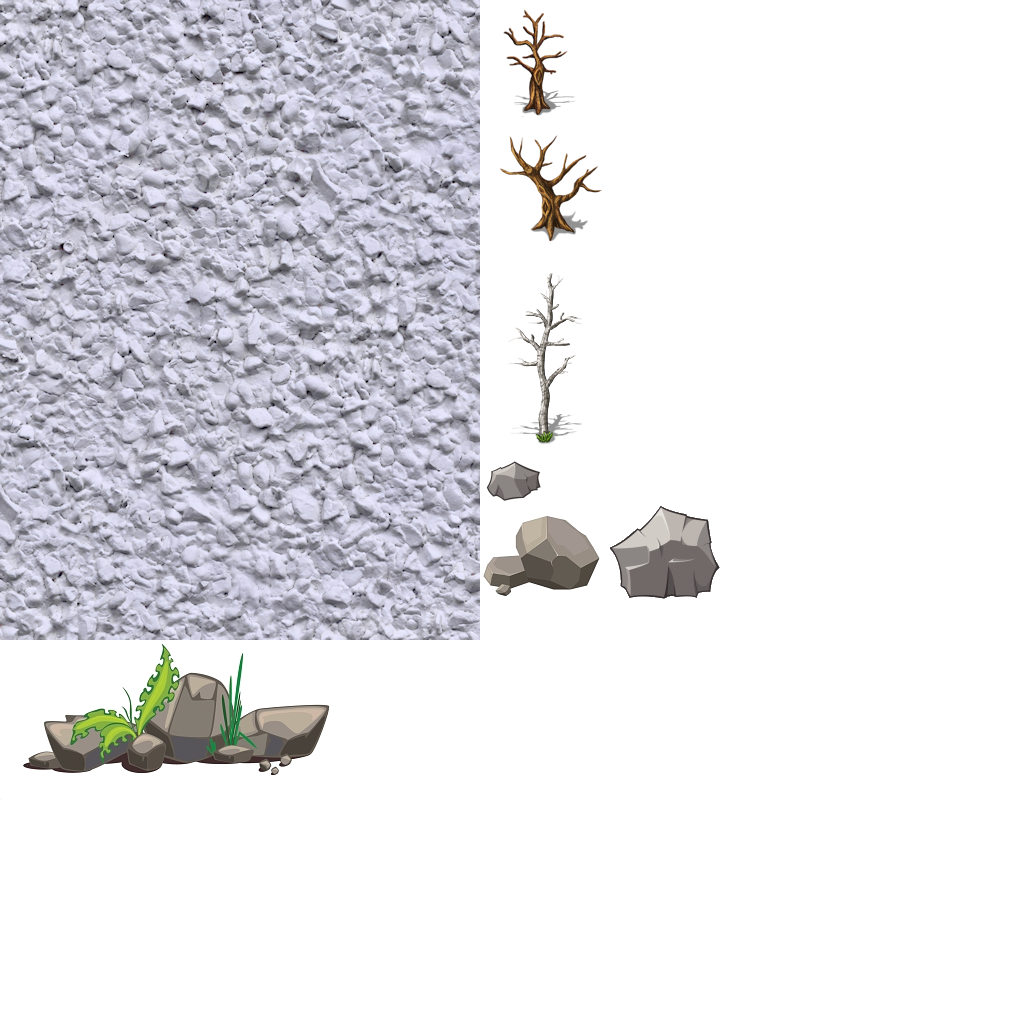
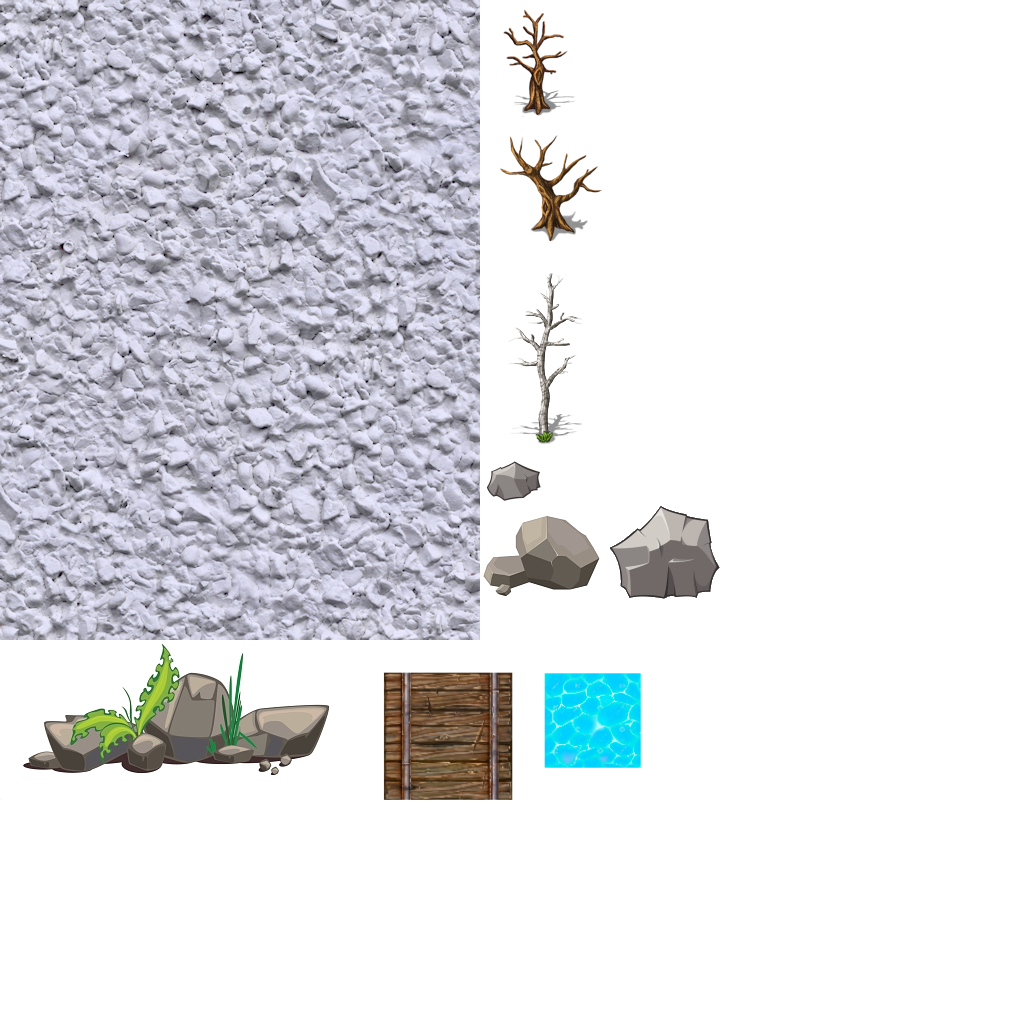
No comments

Changed region(s): [[0.375, 0.6562, 0.5, 0.7812], [0.5312, 0.6562, 0.625, 0.75]]

diff --git a/core/src/uy/com/agm/gamethree/tools/WorldContactListener.java b/core/src/uy/com/agm/gamethree/tools/WorldContactListener.java
@@ -32,13 +32,18 @@ public class WorldContactListener implements ContactListener {
         int collisionDef = fixA.getFilterData().categoryBits | fixB.getFilterData().categoryBits;
         switch (collisionDef) {
             // Hero/HeroGhost/HeroTough - InteractiveTileObjects
-            case Constants.HERO_BIT | Constants.BORDERS_BIT:
+            case Constants.HERO_BIT | Constants.BORDER_BIT:
             case Constants.HERO_BIT | Constants.OBSTACLE_BIT:
-            case Constants.HERO_GHOST_BIT | Constants.BORDERS_BIT:
+            case Constants.HERO_BIT | Constants.PATH_BIT:
+            case Constants.HERO_GHOST_BIT | Constants.BORDER_BIT:
             case Constants.HERO_GHOST_BIT | Constants.OBSTACLE_BIT:
-            case Constants.HERO_TOUGH_BIT | Constants.BORDERS_BIT:
+            case Constants.HERO_GHOST_BIT | Constants.PATH_BIT:
+            case Constants.HERO_TOUGH_BIT | Constants.BORDER_BIT:
             case Constants.HERO_TOUGH_BIT | Constants.OBSTACLE_BIT:
-                fixC = (fixA.getFilterData().categoryBits == Constants.BORDERS_BIT || fixA.getFilterData().categoryBits == Constants.OBSTACLE_BIT) ? fixA : fixB;
+            case Constants.HERO_TOUGH_BIT | Constants.PATH_BIT:
+                fixC = (fixA.getFilterData().categoryBits == Constants.BORDER_BIT ||
+                        fixA.getFilterData().categoryBits == Constants.OBSTACLE_BIT ||
+                        fixA.getFilterData().categoryBits == Constants.PATH_BIT) ? fixA : fixB;
                 ((InteractiveTileObject) fixC.getUserData()).onBump();
                 break;
 
@@ -112,7 +117,8 @@ public class WorldContactListener implements ContactListener {
 
             // Enemy - InteractiveTileObjects
             case Constants.ENEMY_BIT | Constants.OBSTACLE_BIT:
-            case Constants.ENEMY_BIT | Constants.BORDERS_BIT:
+            case Constants.ENEMY_BIT | Constants.BORDER_BIT:
+            case Constants.ENEMY_BIT | Constants.PATH_BIT:
                 fixC = fixA.getFilterData().categoryBits == Constants.ENEMY_BIT ? fixA : fixB;
                 ((Enemy) fixC.getUserData()).onBump();
                 break;
@@ -130,8 +136,9 @@ public class WorldContactListener implements ContactListener {
                 break;
 
             // Item - InteractiveTileObjects
-            case Constants.ITEM_BIT | Constants.BORDERS_BIT:
+            case Constants.ITEM_BIT | Constants.BORDER_BIT:
             case Constants.ITEM_BIT | Constants.OBSTACLE_BIT:
+            case Constants.ITEM_BIT | Constants.PATH_BIT:
                 fixC = fixA.getFilterData().categoryBits == Constants.ITEM_BIT ? fixA : fixB;
                 ((Item) fixC.getUserData()).onBump();
                 break;
@@ -155,7 +162,7 @@ public class WorldContactListener implements ContactListener {
                 break;
 
             // Hero's weapon - InteractiveTileObjects & Items
-            case Constants.HERO_WEAPON_BIT | Constants.BORDERS_BIT:
+            case Constants.HERO_WEAPON_BIT | Constants.BORDER_BIT:
             case Constants.HERO_WEAPON_BIT | Constants.OBSTACLE_BIT:
             case Constants.HERO_WEAPON_BIT | Constants.ITEM_BIT:
                 fixC = fixA.getFilterData().categoryBits == Constants.HERO_WEAPON_BIT ? fixA : fixB;
@@ -185,19 +192,19 @@ public class WorldContactListener implements ContactListener {
                 break;
 
             // Enemy's weapon - Borders
-            case Constants.ENEMY_WEAPON_BIT | Constants.BORDERS_BIT:
+            case Constants.ENEMY_WEAPON_BIT | Constants.BORDER_BIT:
                 fixC = fixA.getFilterData().categoryBits == Constants.ENEMY_WEAPON_BIT ? fixA : fixB;
                 ((Weapon) fixC.getUserData()).onTarget();
                 break;
 
             // Final enemy - Borders
-            case Constants.FINAL_ENEMY_BIT | Constants.BORDERS_BIT:
+            case Constants.FINAL_ENEMY_BIT | Constants.BORDER_BIT:
                 fixC = fixA.getFilterData().categoryBits == Constants.FINAL_ENEMY_BIT ? fixA : fixB;
                 ((FinalEnemy) fixC.getUserData()).onHitWall(true);
                 break;
 
             // Final enemy - Edges
-            case Constants.FINAL_ENEMY_BIT | Constants.EDGES_BIT:
+            case Constants.FINAL_ENEMY_BIT | Constants.EDGE_BIT:
                 fixC = fixA.getFilterData().categoryBits == Constants.FINAL_ENEMY_BIT ? fixA : fixB;
                 ((FinalEnemy) fixC.getUserData()).onHitWall(false);
                 break;

diff --git a/core/src/uy/com/agm/gamethree/tools/B2WorldCreator.java b/core/src/uy/com/agm/gamethree/tools/B2WorldCreator.java
@@ -24,6 +24,7 @@ import uy.com.agm.gamethree.sprites.items.powerups.PowerThree;
 import uy.com.agm.gamethree.sprites.items.powerups.PowerTwo;
 import uy.com.agm.gamethree.sprites.tileobjects.Borders;
 import uy.com.agm.gamethree.sprites.tileobjects.Obstacle;
+import uy.com.agm.gamethree.sprites.tileobjects.Path;
 import uy.com.agm.gamethree.sprites.weapons.EnemyBullet;
 import uy.com.agm.gamethree.sprites.weapons.HeroBullet;
 import uy.com.agm.gamethree.sprites.weapons.Weapon;
@@ -63,19 +64,27 @@ public class B2WorldCreator {
 
         TiledMap map = screen.getMap();
 
-        // Layer: borders
-        layer = map.getLayers().get("borders");
+        // Layer: border
+        layer = map.getLayers().get("border");
         if (layer != null) {
             for (MapObject object : layer.getObjects().getByType(RectangleMapObject.class)) {
                 new Borders(screen, object);
             }
         }
 
-        // Layer: obstacles
-        layer = map.getLayers().get("obstacles");
+        // Layer: obstacle
+        layer = map.getLayers().get("obstacle");
         if (layer != null) {
             for (MapObject object : layer.getObjects().getByType(RectangleMapObject.class)) {
                 new Obstacle(screen, object);
+            }
+        }
+
+        // Layer: path
+        layer = map.getLayers().get("path");
+        if (layer != null) {
+            for (MapObject object : layer.getObjects().getByType(RectangleMapObject.class)) {
+                new Path(screen, object);
             }
         }
 

diff --git a/core/src/uy/com/agm/gamethree/game/Constants.java b/core/src/uy/com/agm/gamethree/game/Constants.java
@@ -148,19 +148,20 @@ public class Constants {
 
     // Box2D Collision Bits
     public static final short NOTHING_BIT = 0;
-    public static final short BORDERS_BIT = 1;
-    public static final short EDGES_BIT = 2;
+    public static final short BORDER_BIT = 1;
+    public static final short EDGE_BIT = 2;
     public static final short OBSTACLE_BIT = 4;
-    public static final short HERO_BIT = 8;
-    public static final short HERO_GHOST_BIT = 16;
-    public static final short HERO_TOUGH_BIT = 32;
-    public static final short POWERBOX_BIT = 64;
-    public static final short ENEMY_BIT = 128;
-    public static final short ITEM_BIT = 256;
-    public static final short HERO_WEAPON_BIT = 512;
-    public static final short ENEMY_WEAPON_BIT = 1024;
-    public static final short FINAL_ENEMY_BIT = 2048;
-    public static final short SHIELD_BIT = 4096;
+    public static final short PATH_BIT = 8;
+    public static final short HERO_BIT = 16;
+    public static final short HERO_GHOST_BIT = 32;
+    public static final short HERO_TOUGH_BIT = 64;
+    public static final short POWERBOX_BIT = 128;
+    public static final short ENEMY_BIT = 256;
+    public static final short ITEM_BIT = 512;
+    public static final short HERO_WEAPON_BIT = 1024;
+    public static final short ENEMY_WEAPON_BIT = 2048;
+    public static final short FINAL_ENEMY_BIT = 4096;
+    public static final short SHIELD_BIT = 8192;
 
     // Hero (meters = pixels * resizeFactor / PPM)
     public static final float HERO_LINEAR_VELOCITY = 5.2f;

diff --git a/core/src/uy/com/agm/gamethree/screens/PlayScreen.java b/core/src/uy/com/agm/gamethree/screens/PlayScreen.java
@@ -96,8 +96,8 @@ public class PlayScreen extends AbstractScreen {
         renderer = new OrthogonalTiledMapRenderer(map, 1 / Constants.PPM);
 
         // Initially set our gamcam to be centered correctly at the start (bottom) of the map
-        // todo gameCam.position.set(gameViewPort.getWorldWidth() / 2, gameViewPort.getWorldHeight() / 2, 0);
-        gameCam.position.set(gameViewPort.getWorldWidth() / 2, 70, 0);
+        gameCam.position.set(gameViewPort.getWorldWidth() / 2, gameViewPort.getWorldHeight() / 2, 0);
+        // todo gameCam.position.set(gameViewPort.getWorldWidth() / 2, 70, 0);
 
         // Create our Box2D world, setting no gravity in x and no gravity in y, and allow bodies to sleep
         world = new World(new Vector2(0, 0), true);
@@ -114,7 +114,7 @@ public class PlayScreen extends AbstractScreen {
 
         // Create the hero in our game world
         player = new Hero(this, gameCam.position.x, gameCam.position.y / 2);
-        player.getB2body().setTransform(this.getGameCam().position.x, this.getGameCam().position.y - this.getGameViewPort().getWorldHeight() / 4, player.getB2body().getAngle()); // todo
+        //player.getB2body().setTransform(this.getGameCam().position.x, this.getGameCam().position.y - this.getGameViewPort().getWorldHeight() / 4, player.getB2body().getAngle()); // todo
 
         // Create boundaries
         upperEdge = new Edge(this, true);

diff --git a/core/src/uy/com/agm/gamethree/sprites/player/Hero.java b/core/src/uy/com/agm/gamethree/sprites/player/Hero.java
@@ -429,11 +429,11 @@ public class Hero extends Sprite {
         powerDown();
         screen.getHud().forcePowerTimeUp();
 
-        // Our Hero can collide with borders, edges and items only
+        // Our Hero can collide with borders and edges only
         Filter filter = new Filter();
         filter.categoryBits = Constants.HERO_BIT; // Depicts what this fixture is
-        filter.maskBits = Constants.BORDERS_BIT |
-                Constants.EDGES_BIT; // Depicts what this Fixture can collide with (see WorldContactListener)
+        filter.maskBits = Constants.BORDER_BIT |
+                Constants.EDGE_BIT; // Depicts what this Fixture can collide with (see WorldContactListener)
         for (Fixture fixture : b2body.getFixtureList()) {
             fixture.setFilterData(filter);
         }
@@ -536,9 +536,10 @@ public class Hero extends Sprite {
     private void setDefaultFilter() {
         Filter filter = new Filter();
         filter.categoryBits = Constants.HERO_BIT; // Depicts what this fixture is
-        filter.maskBits = Constants.BORDERS_BIT |
-                Constants.EDGES_BIT |
+        filter.maskBits = Constants.BORDER_BIT |
+                Constants.EDGE_BIT |
                 Constants.OBSTACLE_BIT |
+                Constants.PATH_BIT |
                 Constants.POWERBOX_BIT |
                 Constants.ITEM_BIT |
                 Constants.ENEMY_BIT |

diff --git a/core/src/uy/com/agm/gamethree/sprites/items/powerups/PowerOne.java b/core/src/uy/com/agm/gamethree/sprites/items/powerups/PowerOne.java
@@ -65,8 +65,9 @@ public class PowerOne extends Item {
         CircleShape shape = new CircleShape();
         shape.setRadius(Constants.POWERONE_CIRCLESHAPE_RADIUS_METERS);
         fdef.filter.categoryBits = Constants.ITEM_BIT; // Depicts what this fixture is
-        fdef.filter.maskBits = Constants.BORDERS_BIT |
+        fdef.filter.maskBits = Constants.BORDER_BIT |
                 Constants.OBSTACLE_BIT |
+                Constants.PATH_BIT |
                 Constants.ENEMY_BIT |
                 Constants.POWERBOX_BIT |
                 Constants.ITEM_BIT |
@@ -152,9 +153,10 @@ public class PowerOne extends Item {
             // Hero can't collide with enemies nor bullets
             Filter filter = new Filter();
             filter.categoryBits = Constants.HERO_GHOST_BIT;  // Depicts what this fixture is
-            filter.maskBits = Constants.BORDERS_BIT |
-                    Constants.EDGES_BIT |
+            filter.maskBits = Constants.BORDER_BIT |
+                    Constants.EDGE_BIT |
                     Constants.OBSTACLE_BIT |
+                    Constants.PATH_BIT |
                     Constants.POWERBOX_BIT |
                     Constants.ITEM_BIT |
                     Constants.ENEMY_BIT;  // Depicts what this Fixture can collide with (see WorldContactListener)

diff --git a/core/src/uy/com/agm/gamethree/sprites/items/powerups/PowerFour.java b/core/src/uy/com/agm/gamethree/sprites/items/powerups/PowerFour.java
@@ -65,8 +65,9 @@ public class PowerFour extends Item {
         CircleShape shape = new CircleShape();
         shape.setRadius(Constants.POWERFOUR_CIRCLESHAPE_RADIUS_METERS);
         fdef.filter.categoryBits = Constants.ITEM_BIT; // Depicts what this fixture is
-        fdef.filter.maskBits = Constants.BORDERS_BIT |
+        fdef.filter.maskBits = Constants.BORDER_BIT |
                 Constants.OBSTACLE_BIT |
+                Constants.PATH_BIT |
                 Constants.ENEMY_BIT |
                 Constants.POWERBOX_BIT |
                 Constants.ITEM_BIT |
@@ -152,9 +153,10 @@ public class PowerFour extends Item {
             // Create a new Filter
             Filter filter = new Filter();
             filter.categoryBits = Constants.HERO_TOUGH_BIT; // Depicts what this fixture is
-            filter.maskBits = Constants.BORDERS_BIT |
-                    Constants.EDGES_BIT |
+            filter.maskBits = Constants.BORDER_BIT |
+                    Constants.EDGE_BIT |
                     Constants.OBSTACLE_BIT |
+                    Constants.PATH_BIT |
                     Constants.POWERBOX_BIT |
                     Constants.ITEM_BIT |
                     Constants.ENEMY_BIT |

diff --git a/core/src/uy/com/agm/gamethree/sprites/tileobjects/Path.java b/core/src/uy/com/agm/gamethree/sprites/tileobjects/Path.java
@@ -3,21 +3,21 @@ package uy.com.agm.gamethree.sprites.tileobjects;
 import com.badlogic.gdx.maps.MapObject;
 
 import uy.com.agm.gamethree.assets.Assets;
+import uy.com.agm.gamethree.game.Constants;
 import uy.com.agm.gamethree.screens.PlayScreen;
 import uy.com.agm.gamethree.tools.AudioManager;
-import uy.com.agm.gamethree.game.Constants;
 
 /**
  * Created by AGM on 12/4/2017.
  */
 
-public class Borders extends InteractiveTileObject {
-    private static final String TAG = Borders.class.getName();
+public class Path extends InteractiveTileObject {
+    private static final String TAG = Path.class.getName();
 
-    public Borders(PlayScreen screen, MapObject object) {
+    public Path(PlayScreen screen, MapObject object) {
         super(screen, object);
         fixture.setUserData(this);
-        setCategoryFilter(Constants.BORDER_BIT);
+        setCategoryFilter(Constants.PATH_BIT);
     }
 
     @Override

diff --git a/core/src/uy/com/agm/gamethree/sprites/enemies/EnemyOne.java b/core/src/uy/com/agm/gamethree/sprites/enemies/EnemyOne.java
@@ -52,8 +52,9 @@ public class EnemyOne extends Enemy {
         CircleShape shape = new CircleShape();
         shape.setRadius(Constants.ENEMYONE_CIRCLESHAPE_RADIUS_METERS);
         fdef.filter.categoryBits = Constants.ENEMY_BIT; // Depicts what this fixture is
-        fdef.filter.maskBits = Constants.BORDERS_BIT |
+        fdef.filter.maskBits = Constants.BORDER_BIT |
                 Constants.OBSTACLE_BIT |
+                Constants.PATH_BIT |
                 Constants.POWERBOX_BIT |
                 Constants.ITEM_BIT |
                 Constants.HERO_WEAPON_BIT |

diff --git a/core/src/uy/com/agm/gamethree/sprites/items/powerups/PowerThree.java b/core/src/uy/com/agm/gamethree/sprites/items/powerups/PowerThree.java
@@ -69,8 +69,9 @@ public class PowerThree extends Item {
         CircleShape shape = new CircleShape();
         shape.setRadius(Constants.POWERTHREE_CIRCLESHAPE_RADIUS_METERS);
         fdef.filter.categoryBits = Constants.ITEM_BIT; // Depicts what this fixture is
-        fdef.filter.maskBits = Constants.BORDERS_BIT |
+        fdef.filter.maskBits = Constants.BORDER_BIT |
                 Constants.OBSTACLE_BIT |
+                Constants.PATH_BIT |
                 Constants.ENEMY_BIT |
                 Constants.POWERBOX_BIT |
                 Constants.ITEM_BIT |

diff --git a/core/src/uy/com/agm/gamethree/sprites/items/powerups/PowerTwo.java b/core/src/uy/com/agm/gamethree/sprites/items/powerups/PowerTwo.java
@@ -65,8 +65,9 @@ public class PowerTwo extends Item {
         CircleShape shape = new CircleShape();
         shape.setRadius(Constants.POWERTWO_CIRCLESHAPE_RADIUS_METERS);
         fdef.filter.categoryBits = Constants.ITEM_BIT; // Depicts what this fixture is
-        fdef.filter.maskBits = Constants.BORDERS_BIT |
+        fdef.filter.maskBits = Constants.BORDER_BIT |
                 Constants.OBSTACLE_BIT |
+                Constants.PATH_BIT |
                 Constants.ENEMY_BIT |
                 Constants.POWERBOX_BIT |
                 Constants.ITEM_BIT |

diff --git a/core/src/uy/com/agm/gamethree/sprites/weapons/EnemyBullet.java b/core/src/uy/com/agm/gamethree/sprites/weapons/EnemyBullet.java
@@ -53,7 +53,7 @@ public class EnemyBullet extends Weapon {
         CircleShape shape = new CircleShape();
         shape.setRadius(circleShapeRadius);
         fdef.filter.categoryBits = Constants.ENEMY_WEAPON_BIT; // Depicts what this fixture is
-        fdef.filter.maskBits = Constants.BORDERS_BIT |
+        fdef.filter.maskBits = Constants.BORDER_BIT |
                 Constants.SHIELD_BIT |
                 Constants.HERO_TOUGH_BIT |
                 Constants.HERO_BIT; // Depicts what this Fixture can collide with (see WorldContactListener)
